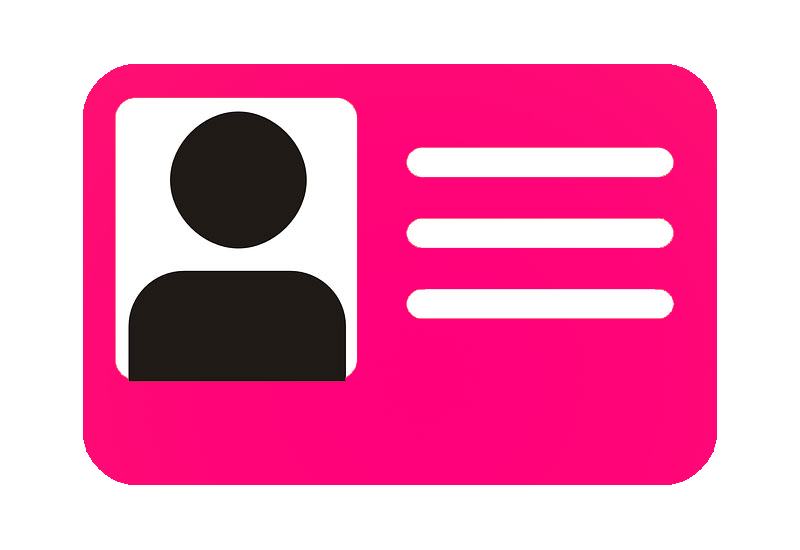
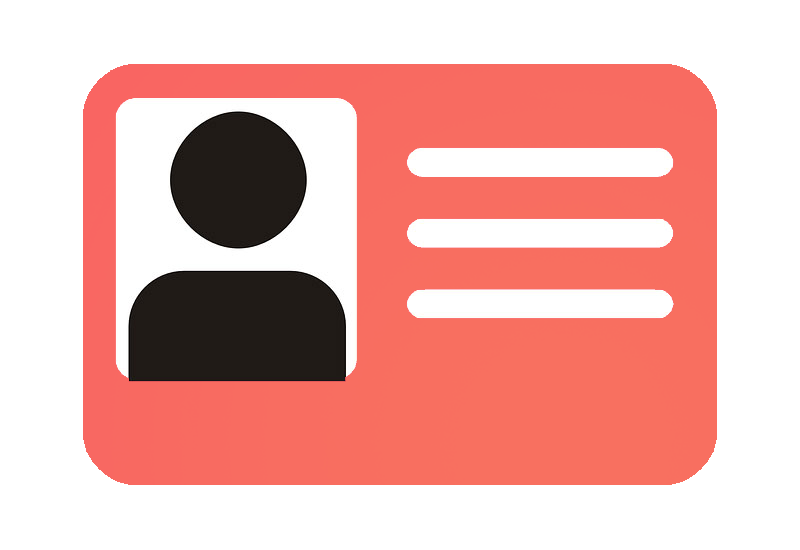
done with style the three cards

diff --git a/app/assets/stylesheets/components/_card.scss b/app/assets/stylesheets/components/_card.scss
@@ -25,14 +25,14 @@
   // padding-top: 20px ;
   padding-bottom: 20px;
 }
-.yellow-card{
-
+.yellow-card .post-badge{
+  background-color: $yellow;
 }
-.blue-card{
-
+.blue-card .post-badge{
+  background-color: $blue;
 }
-.pink-card{
-
+.pink-card .post-badge{
+  background-color: $pink;
 }
 .card-top{
   display: flex;
@@ -45,16 +45,12 @@
 .card-content p{
     font-size: 25px;
     padding: 5px 0;
-    font-family: $body-font;
+    font-family: $post-font;
     color: $black;
     text-align: justify;
 }
 .user-name{
-  display: flex;
-  flex-direction: column;
-  align-items: flex-start;
-  justify-content: center;
-  margin-left: 20px;
+  margin-left: 25px;
 }
 .user-name h2{
   font-family: $headers-font;
@@ -68,25 +64,30 @@
   font-size: 10px;
   padding: 0;
   margin: 0;
-  margin-top: 3px;
+}
+.user-name i{
+  font-size: 4px;
+  padding: 0;
+  margin: 0 5px;
+}
+.avatar-post{
+  width: 50px;
 }
 .time{
   display: flex;
+  align-items: center;
 }
-.time-event{
-  color: $pink;
+.distance{
+  display: flex;
+  align-items: center;
+  margin-top: 3px;
+  color: $grey;
 }
-.time-favour{
-  color: $blue;
-}
-.time-information{
-  color: $yellow;
-}
-.logo{
+.distance img{
+  margin-right: 10px;
+  margin-top: 0;
   width: 8px;
   height: 12px;
-  margin-top: 4px;
-  margin-left: 5px;
 }
 .dropdown-card{
   position: absolute;

diff --git a/app/assets/stylesheets/config/_fonts.scss b/app/assets/stylesheets/config/_fonts.scss
@@ -3,9 +3,10 @@
 @import url("https://fonts.googleapis.com/css?family=Sniglet");
 @import url("https://fonts.googleapis.com/css?family=Roboto:400,700");
 @import url("https://fonts.googleapis.com/css?family=Montserrat:300");
-
+@import url("https://fonts.googleapis.com/css?family=Lato:400,700");
 
 // Define fonts for body and headers
+$post-font: 'Lato', sans-serif;
 $logo-font: 'Sniglet', cursive;
 $access-link-title: 'Roboto', sans-serif;
 $card-title: 'Montserrat', sans-serif;

diff --git a/app/assets/stylesheets/config/_colors.scss b/app/assets/stylesheets/config/_colors.scss
@@ -1,10 +1,13 @@
 // Define variables for your color scheme
 
-$pink: #FF007A;
-$blue: #00A3FF;
-$yellow: #EFE500;
+// $pink: #FF007A;
+// $blue: #00A3FF;
+// $yellow: #EFE500;
 $black: #172118;
 $green: #18A855;
+$blue: #3F88C5;
+$pink: #F87060;
+$yellow: #F3CA40;
 $grey: #797676;
 $background-gray: #F7F7F7;
 $light-grey: #F8F8F8;

diff --git a/app/assets/stylesheets/components/_avatar.scss b/app/assets/stylesheets/components/_avatar.scss
@@ -7,6 +7,8 @@
   height: 37px;
   width: 37px;
   border-radius: 50%;
+  box-shadow: 0 0 20px $box-shadow;
+
 }
 .avatar-navbar{
 
